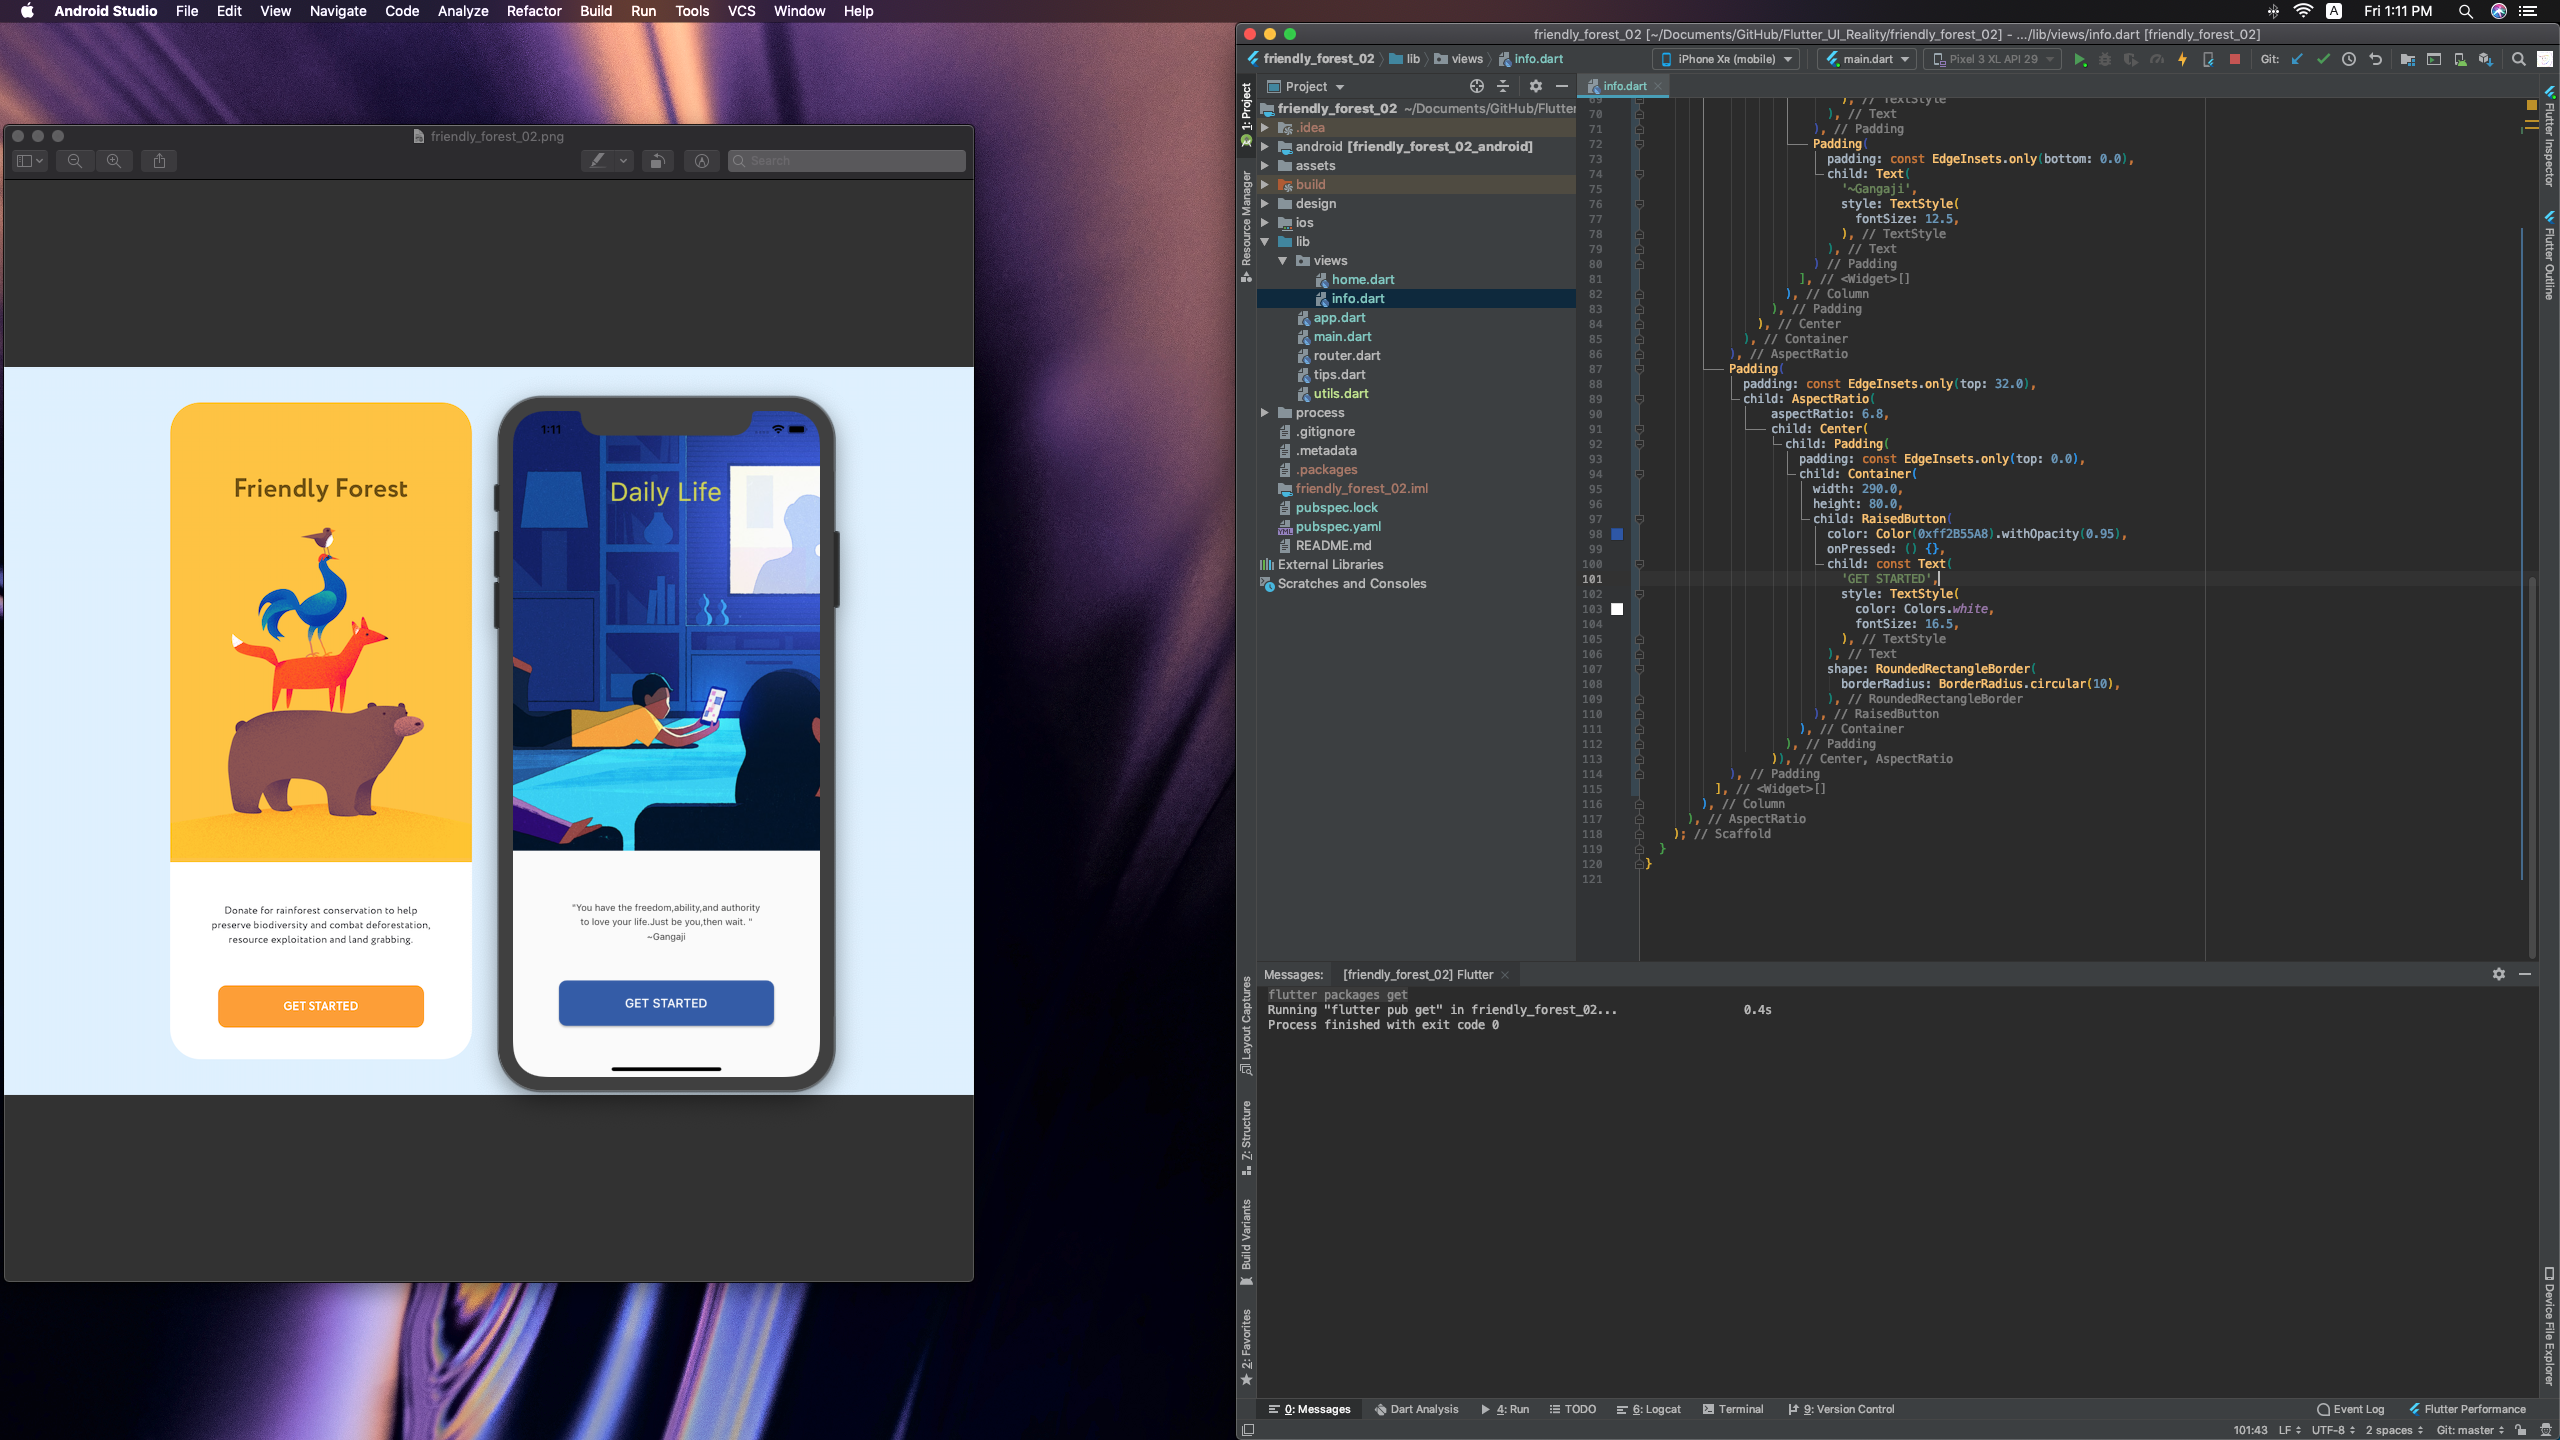
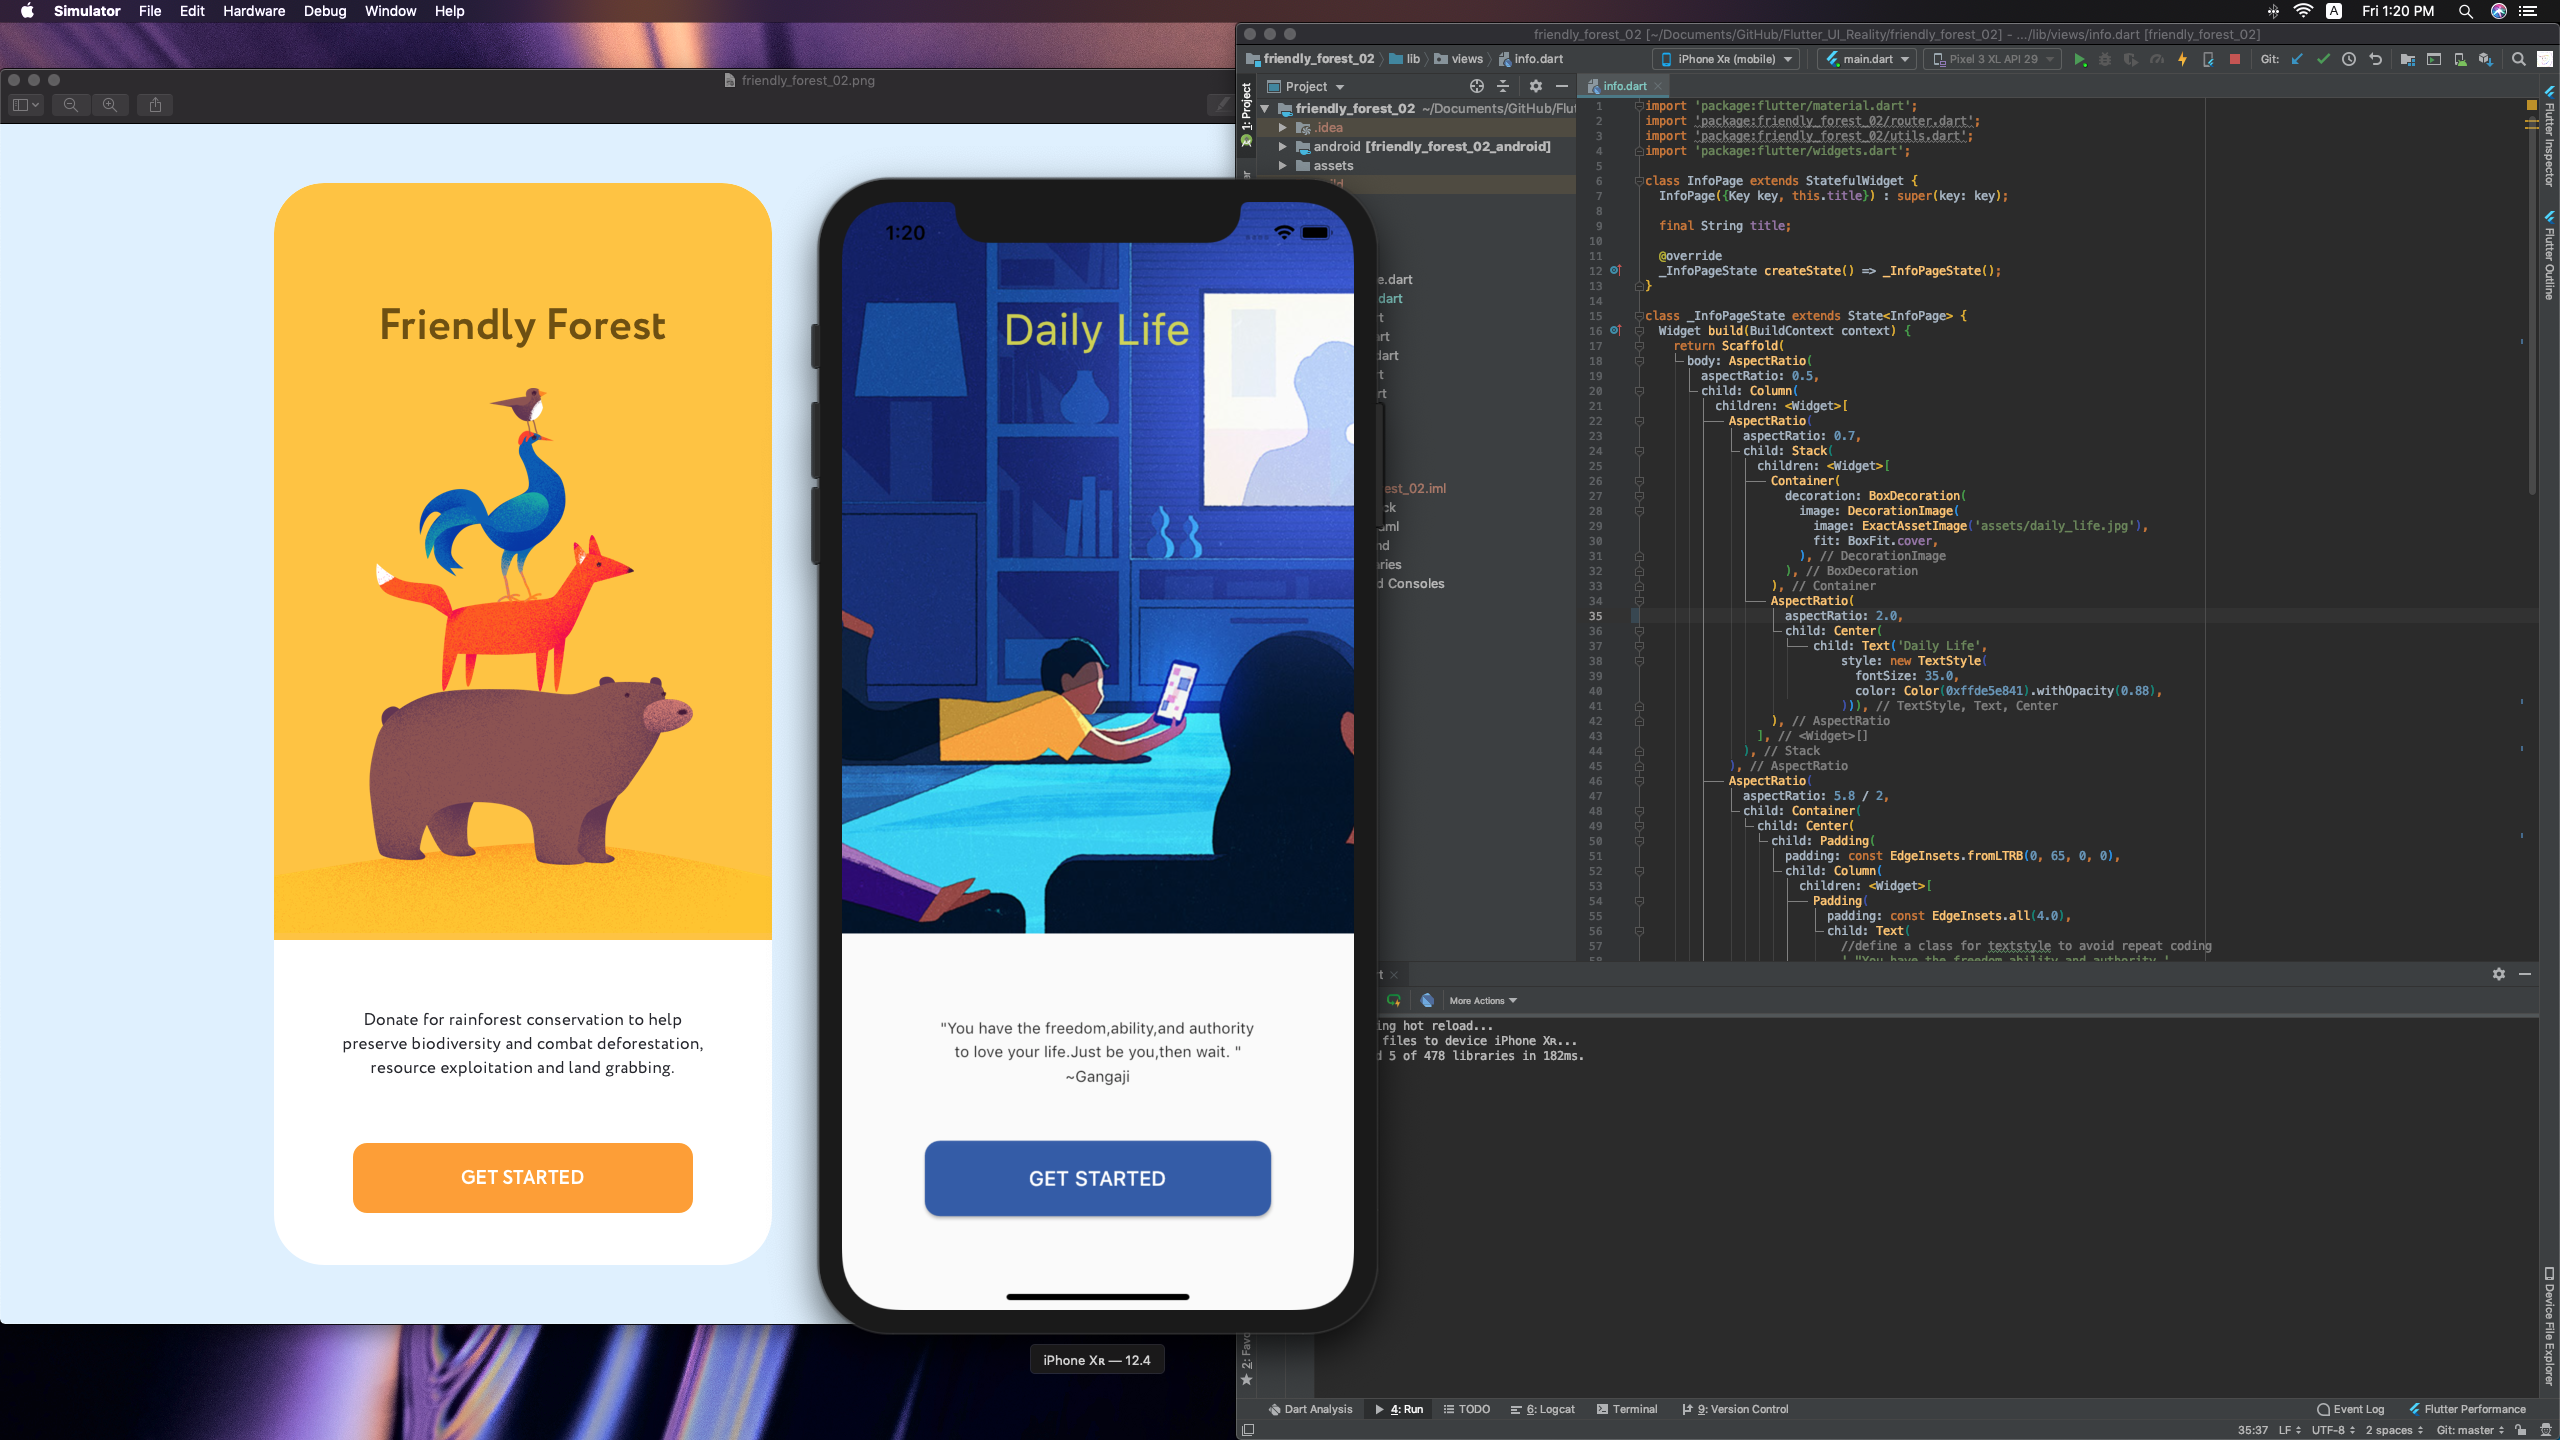
update2

diff --git a/friendly_forest_02/lib/views/info.dart b/friendly_forest_02/lib/views/info.dart
@@ -32,7 +32,7 @@ class _InfoPageState extends State<InfoPage> {
                     ),
                   ),
                   AspectRatio(
-                    aspectRatio: 1.9,
+                    aspectRatio: 2.0,
                     child: Center(
                         child: Text('Daily Life',
                             style: new TextStyle(
@@ -86,14 +86,14 @@ class _InfoPageState extends State<InfoPage> {
               ),
             ),
             Padding(
-              padding: const EdgeInsets.only(top: 32.0),
+              padding: const EdgeInsets.only(top: 25.0),
               child: AspectRatio(
                   aspectRatio: 6.8,
                   child: Center(
                     child: Padding(
                       padding: const EdgeInsets.only(top: 0.0),
                       child: Container(
-                        width: 290.0,
+                        width: 280.0,
                         height: 80.0,
                         child: RaisedButton(
                           color: Color(0xff2B55A8).withOpacity(0.95),
@@ -106,7 +106,7 @@ class _InfoPageState extends State<InfoPage> {
                             ),
                           ),
                           shape: RoundedRectangleBorder(
-                            borderRadius: BorderRadius.circular(10),
+                            borderRadius: BorderRadius.circular(12),
                           ),
                         ),
                       ),
